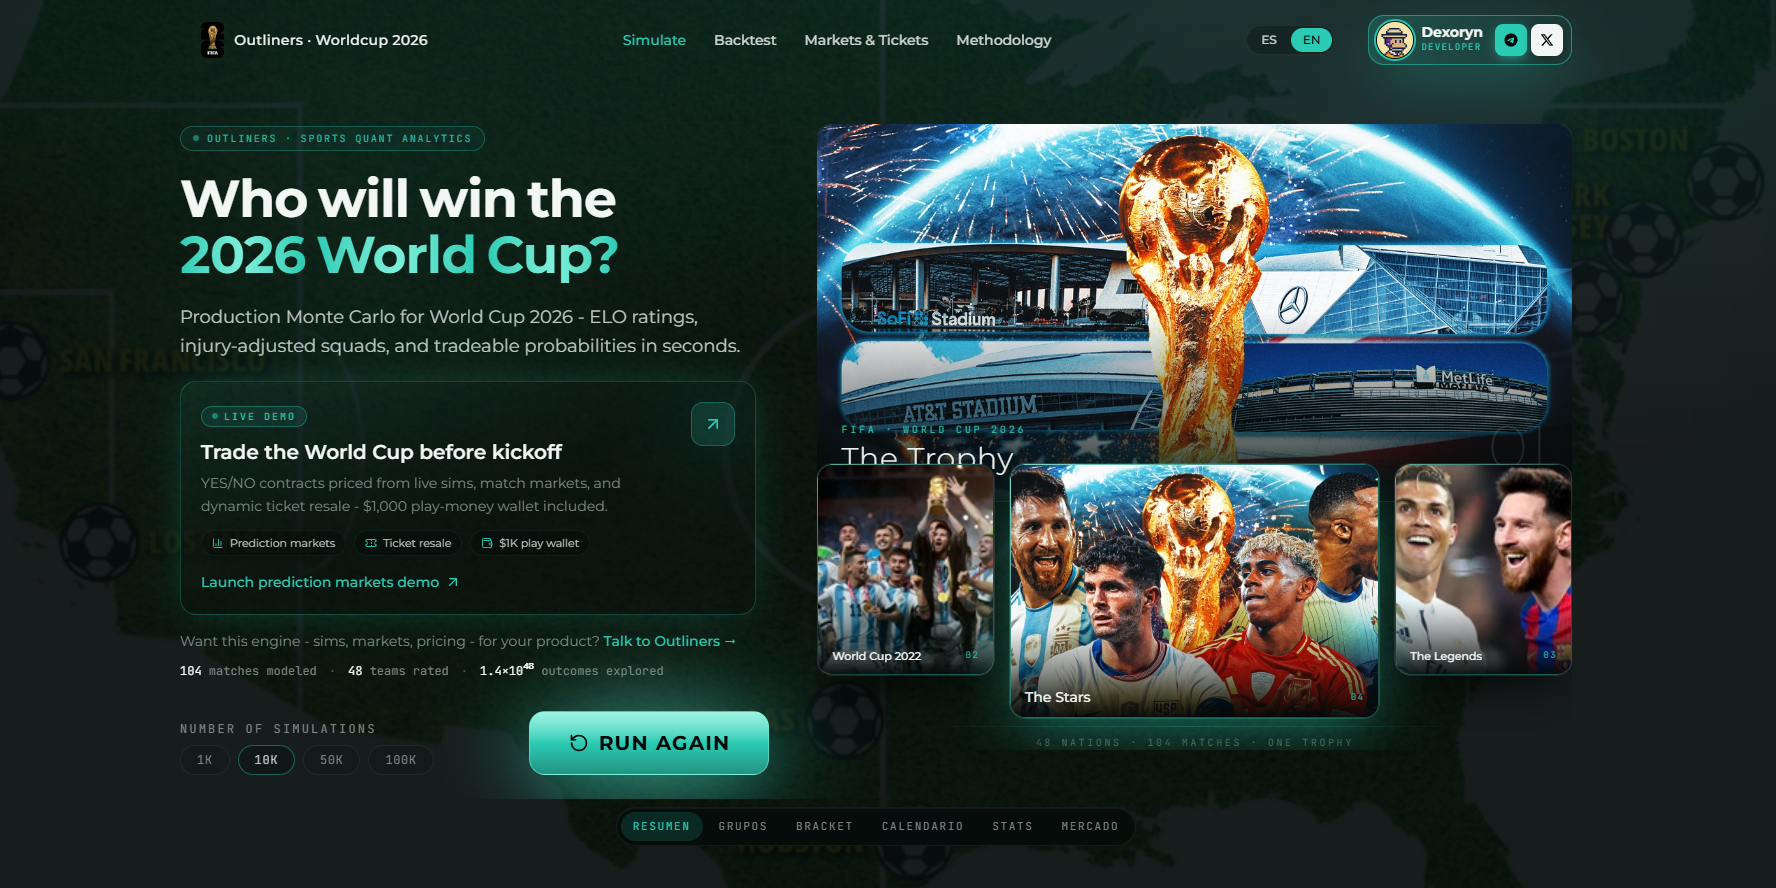
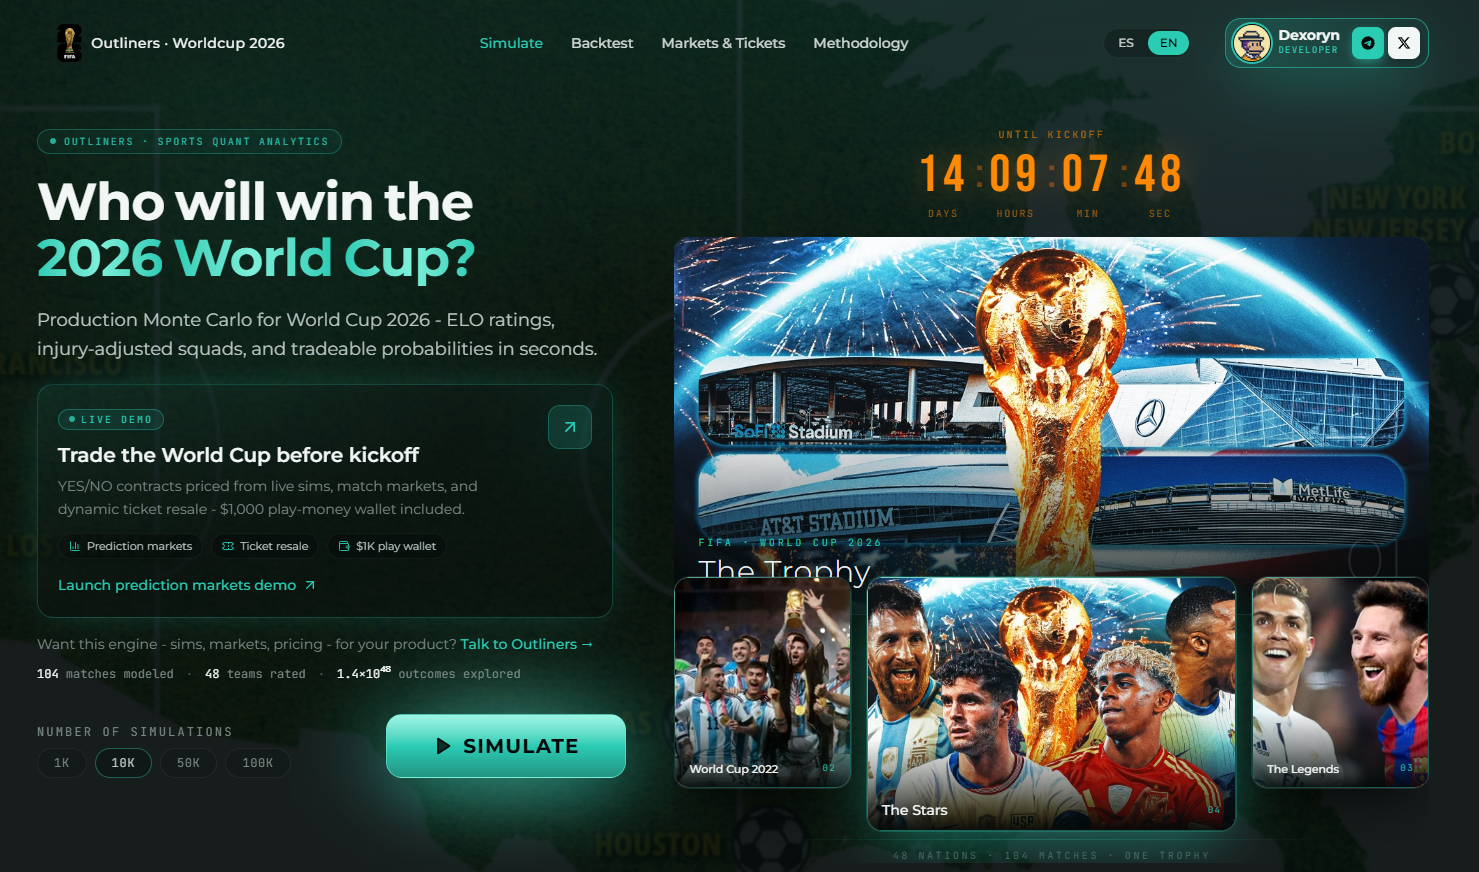
feat: add the countdown to open wolrdcup match

diff --git a/src/components/hero/KickoffCountdown.tsx b/src/components/hero/KickoffCountdown.tsx
@@ -1,0 +1,110 @@
+'use client';
+
+import { useEffect, useState } from 'react';
+import { Bebas_Neue } from 'next/font/google';
+import { useTranslations } from 'next-intl';
+import { cn } from '@/lib/utils';
+import { getCountdownParts, WC2026_KICKOFF_MS, type CountdownParts } from '@/lib/tournament';
+
+const countdownFont = Bebas_Neue({
+  weight: '400',
+  subsets: ['latin'],
+});
+
+const UNITS = ['days', 'hours', 'minutes', 'seconds'] as const;
+
+function pad(n: number): string {
+  return n.toString().padStart(2, '0');
+}
+
+function Unit({
+  value,
+  label,
+}: {
+  value: string;
+  label: string;
+}) {
+  return (
+    <div className="flex min-w-[2.75rem] flex-col items-center sm:min-w-[3.25rem]">
+      <span
+        className={cn(
+          countdownFont.className,
+          'text-[clamp(2rem,5vw,3.25rem)] leading-none tracking-[0.1em] text-orange-400',
+        )}
+        style={{ textShadow: '0 0 28px oklch(0.75 0.18 55 / 0.35)' }}
+        suppressHydrationWarning
+      >
+        {value}
+      </span>
+      <span className="mt-1 font-mono text-[9px] uppercase tracking-[0.16em] text-orange-400/55 sm:text-[10px]">
+        {label}
+      </span>
+    </div>
+  );
+}
+
+export function KickoffCountdown({ className }: { className?: string }) {
+  const t = useTranslations('countdown');
+  const [mounted, setMounted] = useState(false);
+  const [parts, setParts] = useState<CountdownParts>(() =>
+    getCountdownParts(WC2026_KICKOFF_MS),
+  );
+
+  useEffect(() => {
+    setMounted(true);
+    const tick = () => setParts(getCountdownParts(WC2026_KICKOFF_MS));
+    tick();
+    const id = window.setInterval(tick, 1_000);
+    return () => window.clearInterval(id);
+  }, []);
+
+  const values = {
+    days: pad(parts.days),
+    hours: pad(parts.hours),
+    minutes: pad(parts.minutes),
+    seconds: pad(parts.seconds),
+  };
+
+  return (
+    <div
+      className={cn('flex flex-col items-center', className)}
+      role="timer"
+      aria-label={t('aria_label')}
+      aria-live="polite"
+    >
+      <p className="mb-2 font-mono text-[9px] uppercase tracking-[0.22em] text-orange-400/65 sm:text-[10px]">
+        {t('until_open')}
+      </p>
+
+      {mounted ? (
+        <div className="flex items-start gap-1 sm:gap-1.5">
+          {UNITS.map((unit, i) => (
+            <div key={unit} className="flex items-start gap-1 sm:gap-1.5">
+              {i > 0 && (
+                <span
+                  className={cn(
+                    countdownFont.className,
+                    'mt-0.5 text-[clamp(1.75rem,4vw,2.75rem)] leading-none text-orange-500/40',
+                  )}
+                  aria-hidden
+                >
+                  :
+                </span>
+              )}
+              <Unit value={values[unit]} label={t(unit)} />
+            </div>
+          ))}
+        </div>
+      ) : (
+        <div className="flex gap-3" aria-hidden>
+          {UNITS.map((unit) => (
+            <div key={unit} className="flex flex-col items-center gap-1">
+              <div className="h-10 w-10 animate-pulse rounded-md bg-orange-500/10 sm:h-12 sm:w-12" />
+              <div className="h-2 w-8 animate-pulse rounded bg-orange-500/10" />
+            </div>
+          ))}
+        </div>
+      )}
+    </div>
+  );
+}

diff --git a/src/lib/tournament.ts b/src/lib/tournament.ts
@@ -1,0 +1,22 @@
+/** Opening match: Mexico vs South Africa, 13:00 Mexico City (UTC−6, no DST). */
+export const WC2026_KICKOFF_MS = Date.parse('2026-06-11T13:00:00-06:00');
+
+export interface CountdownParts {
+  days: number;
+  hours: number;
+  minutes: number;
+  seconds: number;
+  totalMs: number;
+}
+
+export function getCountdownParts(targetMs: number, nowMs = Date.now()): CountdownParts {
+  const totalMs = Math.max(0, targetMs - nowMs);
+  const totalSec = Math.floor(totalMs / 1000);
+  return {
+    days: Math.floor(totalSec / 86_400),
+    hours: Math.floor((totalSec % 86_400) / 3_600),
+    minutes: Math.floor((totalSec % 3_600) / 60),
+    seconds: totalSec % 60,
+    totalMs,
+  };
+}

diff --git a/src/components/Hero.tsx b/src/components/Hero.tsx
@@ -8,6 +8,7 @@ import { SimulationControls } from './SimulationControls';
 import { MeshGradient } from './hero/MeshGradient';
 import { HeroGallery } from './hero/HeroGallery';
 import { HeroDemoPromo } from './hero/HeroDemoPromo';
+import { KickoffCountdown } from './hero/KickoffCountdown';
 import type { SimState } from '@/hooks/useSimulation';
 
 interface HeroProps {
@@ -104,7 +105,8 @@ export function Hero({ state, onRun }: HeroProps) {
           </div>
         </div>
 
-        <div className="relative w-full min-w-0">
+        <div className="relative flex w-full min-w-0 flex-col">
+          <KickoffCountdown className="mb-2 sm:mb-4 lg:mb-4" />
           <HeroGallery />
         </div>
       </div>